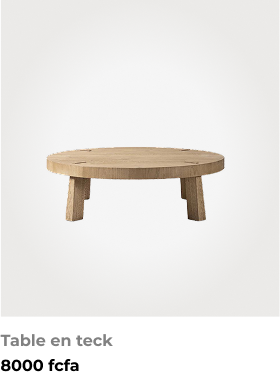
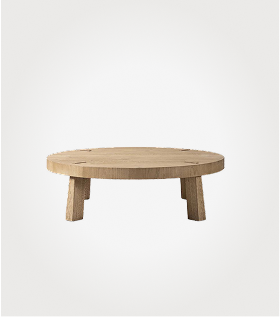
fin

Changed region(s): [[0.1429, 0.3681, 0.8, 0.7055], [0.0, 0.8896, 0.4, 1.0]]

diff --git a/products.html b/products.html
@@ -37,51 +37,7 @@
             <img src="images/bannières/ban-produits.png" alt="Electronique Banner">
         </section>
 
-          <!-- Plastique -->
-          <section class="categories">
-            <div class="category-nav">
-                <div>
-                   <h2>Plastique</h2>
-                </div>
-                <div class="nav-arrows">
-                    <a href="#" class="active">tout voir</a>
-                    <a href="#"><i class="fas fa-arrow-right"></i></a>
-                </div>
-            </div>
-            
-            <div class="products-grid">
-                <!-- Produit 1 -->
-                <div class="product-card">
-                        <img src="images/produits/Group 168.png" alt="Bocal en verre">
-                        <h3 class="product-title">Bocal en verre</h3>
-                        <div class="product-price-row">
-                            <span class="product-price">300 fcfa / unité</span>
-                            <i class="fas fa-heart fav-icon"></i>
-                        </div>
-                </div>
-                
-                <!-- Produit 2 -->
-                <div class="product-card">
-                        <img src="images/produits/Group 169.png" alt="Montre Mens hand">
-                        <h3 class="product-title">Montre Mens hand</h3>
-                        <div class="product-price-row">
-                            <span class="product-price">5000 fcfa</span>
-                            <i class="fas fa-heart fav-icon"></i>
-                        </div>
-                </div>
-                
-                <!-- Produit 3 -->
-                <div class="product-card">
-                        <img src="images/produits/Group 170.png" alt="Bouteille d'eau plastique">
-                        <h3 class="product-title">Bouteille d'eau plastique</h3>
-                        <div class="product-price-row">
-                            <span class="product-price">100 fcfa / unité</span>
-                            <i class="fas fa-heart fav-icon"></i>
-                        </div>
-                </div>
-            </div>
-        </section>
-        <!-- Papier -->
+        <!-- Plastique -->
         <section class="categories">
             <div class="category-nav">
                 <div>
@@ -99,17 +55,17 @@
                         <img src="images/produits/Group 168.png" alt="Bocal en verre">
                         <h3 class="product-title">Bocal en verre</h3>
                         <div class="product-price-row">
-                            <span class="product-price">300 fcfa / unité</span>
+                            <span class="product-price">1500 fcfa / kg</span>
                             <i class="fas fa-heart fav-icon"></i>
                         </div>
                 </div>
                 
                 <!-- Produit 2 -->
                 <div class="product-card">
-                        <img src="images/produits/Group 169.png" alt="Montre Mens hand">
-                        <h3 class="product-title">Montre Mens hand</h3>
+                        <img src="images/produits/Group 171.png" alt="Bouteille en verre">
+                        <h3 class="product-title">Bouteille en verre</h3>
                         <div class="product-price-row">
-                            <span class="product-price">5000 fcfa</span>
+                            <span class="product-price">1000 fcfa / kg</span>
                             <i class="fas fa-heart fav-icon"></i>
                         </div>
                 </div>
@@ -119,18 +75,18 @@
                         <img src="images/produits/Group 170.png" alt="Bouteille d'eau plastique">
                         <h3 class="product-title">Bouteille d'eau plastique</h3>
                         <div class="product-price-row">
-                            <span class="product-price">100 fcfa / unité</span>
+                            <span class="product-price">2500 fcfa / kg</span>
                             <i class="fas fa-heart fav-icon"></i>
                         </div>
                 </div>
             </div>
         </section>
 
-         <!-- Bois -->
+         <!-- Papier -->
          <section class="categories">
             <div class="category-nav">
                 <div>
-                   <h2>Plastique</h2>
+                   <h2>Papier</h2>
                 </div>
                 <div class="nav-arrows">
                     <a href="#" class="active">tout voir</a>
@@ -141,41 +97,87 @@
             <div class="products-grid">
                 <!-- Produit 1 -->
                 <div class="product-card">
-                        <img src="images/produits/Group 168.png" alt="Bocal en verre">
-                        <h3 class="product-title">Bocal en verre</h3>
+                        <img src="images/produits/Group 174.png" alt="Journaux papier">
+                        <h3 class="product-title">Journaux papier</h3>
                         <div class="product-price-row">
-                            <span class="product-price">300 fcfa / unité</span>
+                            <span class="product-price">500 fcfa / kg</span>
                             <i class="fas fa-heart fav-icon"></i>
                         </div>
                 </div>
                 
                 <!-- Produit 2 -->
                 <div class="product-card">
-                        <img src="images/produits/Group 169.png" alt="Montre Mens hand">
-                        <h3 class="product-title">Montre Mens hand</h3>
+                        <img src="images/produits/Group 175.png" alt="Carton papier usager quasi neuf">
+                        <h3 class="product-title">Carton papier usager quasi neuf</h3>
                         <div class="product-price-row">
-                            <span class="product-price">5000 fcfa</span>
+                            <span class="product-price">100 fcfa / unité</span>
                             <i class="fas fa-heart fav-icon"></i>
                         </div>
                 </div>
                 
                 <!-- Produit 3 -->
                 <div class="product-card">
-                        <img src="images/produits/Group 170.png" alt="Bouteille d'eau plastique">
-                        <h3 class="product-title">Bouteille d'eau plastique</h3>
+                        <img src="images/produits/Group 176.png" alt="Sachets papier recyclés">
+                        <h3 class="product-title">Sachets papier recyclés</h3>
                         <div class="product-price-row">
-                            <span class="product-price">100 fcfa / unité</span>
+                            <span class="product-price">2500 fcfa / 50 unités</span>
                             <i class="fas fa-heart fav-icon"></i>
                         </div>
                 </div>
             </div>
         </section>
 
+          <!-- Bois -->
+          <section class="categories">
+            <div class="category-nav">
+                <div>
+                   <h2>Bois</h2>
+                </div>
+                <div class="nav-arrows">
+                    <a href="#" class="active">tout voir</a>
+                    <a href="#"><i class="fas fa-arrow-right"></i></a>
+                </div>
+            </div>
+            
+            <div class="products-grid">
+                <!-- Produit 1 -->
+                <div class="product-card">
+                        <img src="images/produits/Group 177.png" alt="Table basse en teck">
+                        <h3 class="product-title">Table basse en teck</h3>
+                        <div class="product-price-row">
+                            <span class="product-price">10 000 fcfa / unité</span>
+                            <i class="fas fa-heart fav-icon"></i>
+                        </div>
+                </div>
+                
+                  <!-- Produit 3 -->
+                  <div class="product-card">
+                    <img src="images/produits/Group 178.png" alt="Table basse">
+                    <h3 class="product-title">Table basse</h3>
+                    <div class="product-price-row">
+                        <span class="product-price">6000 fcfa</span>
+                        <i class="fas fa-heart fav-icon"></i>
+                    </div>
+            </div>
+
+                <!-- Produit 2 -->
+                <div class="product-card">
+                        <img src="images/produits/Group 179.png" alt="Table en teck">
+                        <h3 class="product-title">Table en teck</h3>
+                        <div class="product-price-row">
+                            <span class="product-price">8000 fcfa</span>
+                            <i class="fas fa-heart fav-icon"></i>
+                        </div>
+                </div>
+                
+              
+            </div>
+        </section>
          <!-- Electronique -->
          <section class="categories">
             <div class="category-nav">
                 <div>
-                   <h2>Plastique</h2>
+                   <h2>Electronique</h2>
                 </div>
                 <div class="nav-arrows">
                     <a href="#" class="active">tout voir</a>
@@ -186,30 +188,30 @@
             <div class="products-grid">
                 <!-- Produit 1 -->
                 <div class="product-card">
-                        <img src="images/produits/Group 168.png" alt="Bocal en verre">
-                        <h3 class="product-title">Bocal en verre</h3>
+                        <img src="images/produits/Group 180.png" alt="Ventilateur MITSUI">
+                        <h3 class="product-title">Ventilateur MITSUI</h3>
                         <div class="product-price-row">
-                            <span class="product-price">300 fcfa / unité</span>
+                            <span class="product-price">5000 fcfa / unité</span>
                             <i class="fas fa-heart fav-icon"></i>
                         </div>
                 </div>
                 
                 <!-- Produit 2 -->
                 <div class="product-card">
-                        <img src="images/produits/Group 169.png" alt="Montre Mens hand">
-                        <h3 class="product-title">Montre Mens hand</h3>
+                        <img src="images/produits/Group 181.png" alt="FRIGO - Quasi neuf">
+                        <h3 class="product-title">FRIGO - Quasi neuf</h3>
                         <div class="product-price-row">
-                            <span class="product-price">5000 fcfa</span>
+                            <span class="product-price">95.000 fcfa</span>
                             <i class="fas fa-heart fav-icon"></i>
                         </div>
                 </div>
                 
                 <!-- Produit 3 -->
                 <div class="product-card">
-                        <img src="images/produits/Group 170.png" alt="Bouteille d'eau plastique">
-                        <h3 class="product-title">Bouteille d'eau plastique</h3>
+                        <img src="images/produits/Group 182.png" alt="Télévison LG 70 pouces">
+                        <h3 class="product-title">Télévison LG 70 pouces</h3>
                         <div class="product-price-row">
-                            <span class="product-price">100 fcfa / unité</span>
+                            <span class="product-price">45.000 fcfa </span>
                             <i class="fas fa-heart fav-icon"></i>
                         </div>
                 </div>
